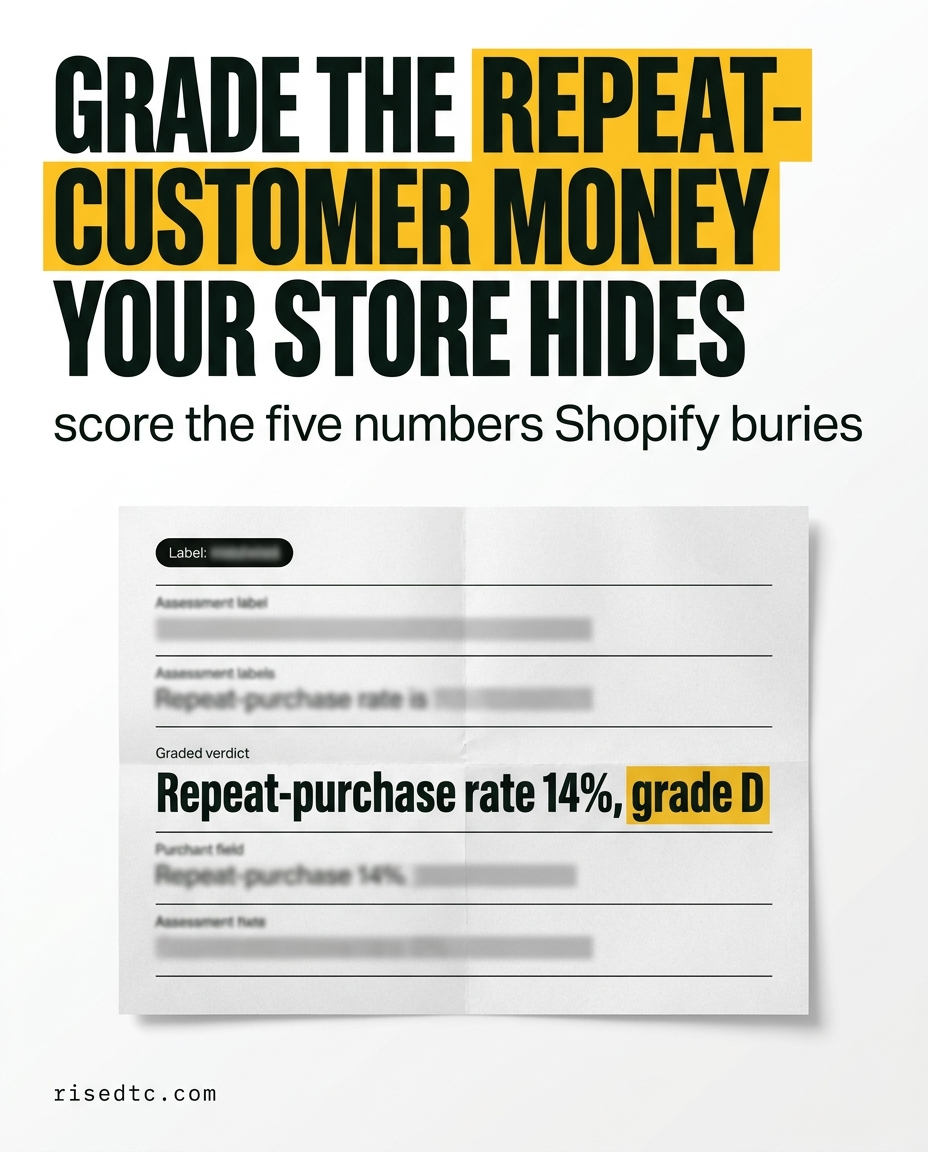
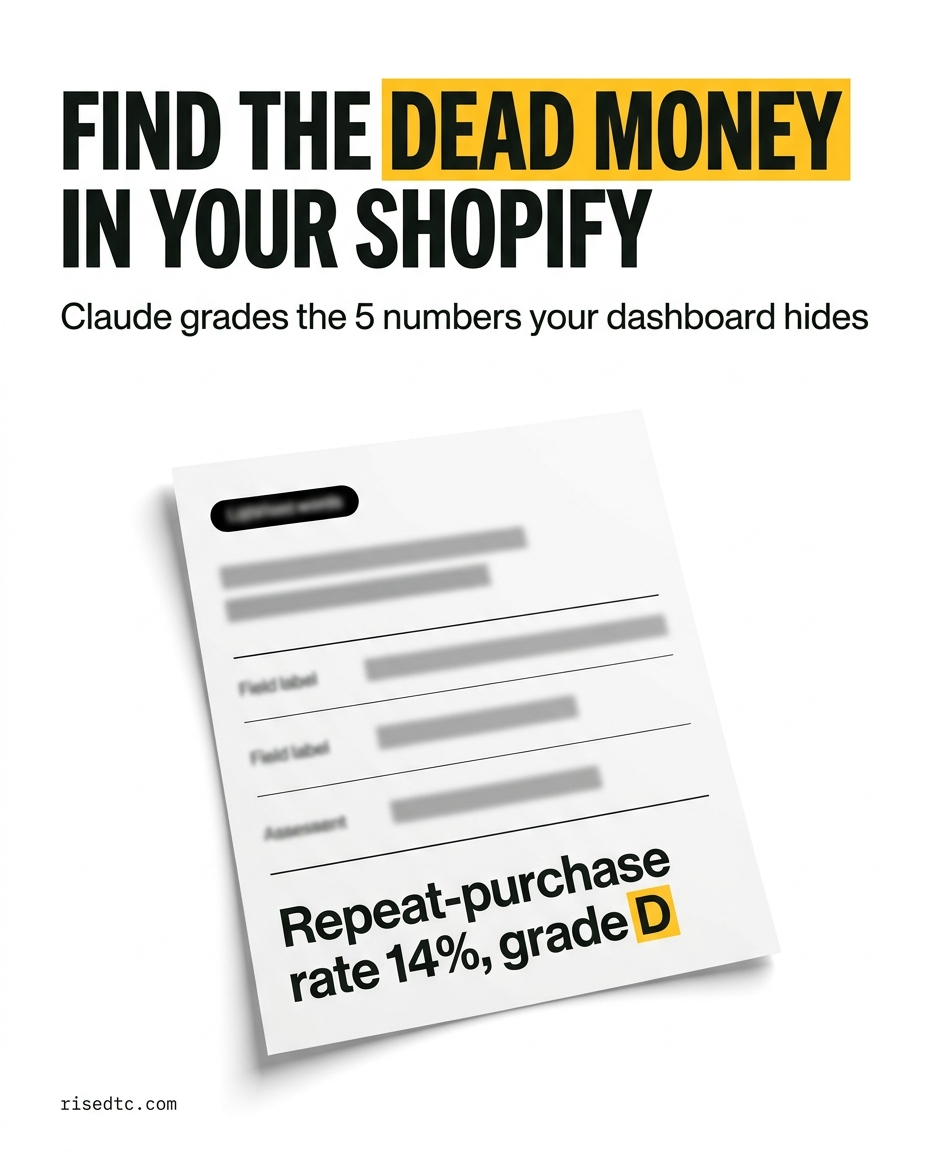
Pilot hook rewrite per Ivan: FOMO register (Find the dead money in your Shopify) on H1/title/og + matching RISE cover

diff --git a/rise-dtc-repeat-customer-report-card/index.html b/rise-dtc-repeat-customer-report-card/index.html
@@ -3,12 +3,12 @@
 <head>
 <meta charset="UTF-8">
 <meta name="viewport" content="width=device-width,initial-scale=1">
-<title>The Shopify Report Card: a Claude skill that grades the repeat-customer money your Shopify dashboard hides | Mattan Danino</title>
+<title>Find the dead money in your Shopify | Mattan Danino</title>
 <meta name="description" content="A ready-to-use Claude system: download it, fill in your context, run it.">
 <meta name="author" content="RISE DTC">
 <meta name="theme-color" content="#ffc71d">
 <link rel="canonical" href="https://resources.risedtc.com/rise-dtc-repeat-customer-report-card/">
-<meta property="og:title" content="The Shopify Report Card: a Claude skill that grades the repeat-customer money your Shopify dashboard hides">
+<meta property="og:title" content="Find the dead money in your Shopify">
 <meta property="og:description" content="A ready-to-use Claude system: download it, fill in your context, run it.">
 <meta property="og:type" content="article">
 <meta property="og:url" content="https://resources.risedtc.com/rise-dtc-repeat-customer-report-card/">
@@ -18,7 +18,7 @@
 <meta property="og:site_name" content="Mattan Danino">
 <meta property="og:locale" content="en_US">
 <meta name="twitter:card" content="summary_large_image">
-<meta name="twitter:title" content="The Shopify Report Card: a Claude skill that grades the repeat-customer money your Shopify dashboard hides">
+<meta name="twitter:title" content="Find the dead money in your Shopify">
 <meta name="twitter:description" content="A ready-to-use Claude system: download it, fill in your context, run it.">
 <meta name="twitter:image" content="https://resources.risedtc.com/assets/og/rise-dtc-repeat-customer-report-card.png">
 <link rel="icon" type="image/png" sizes="32x32" href="https://resources.risedtc.com/assets/favicon-32.png">